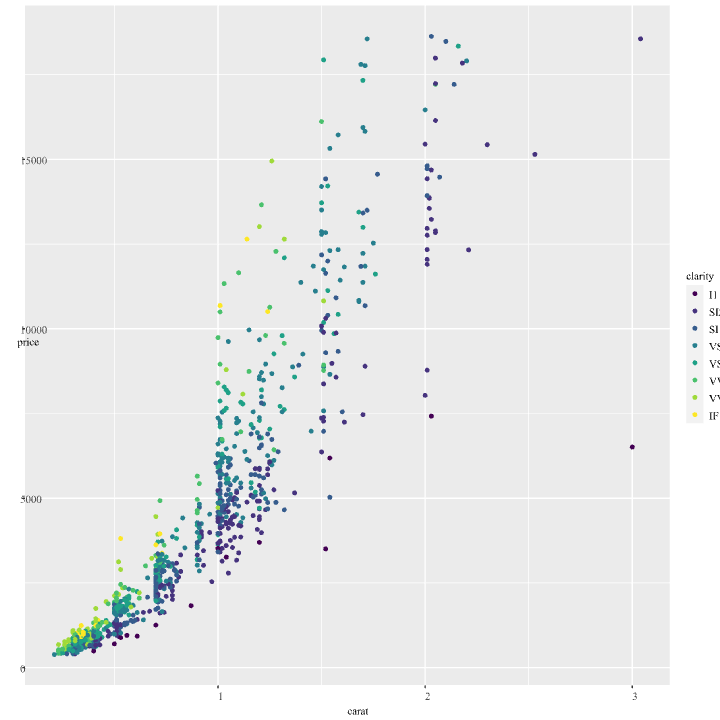
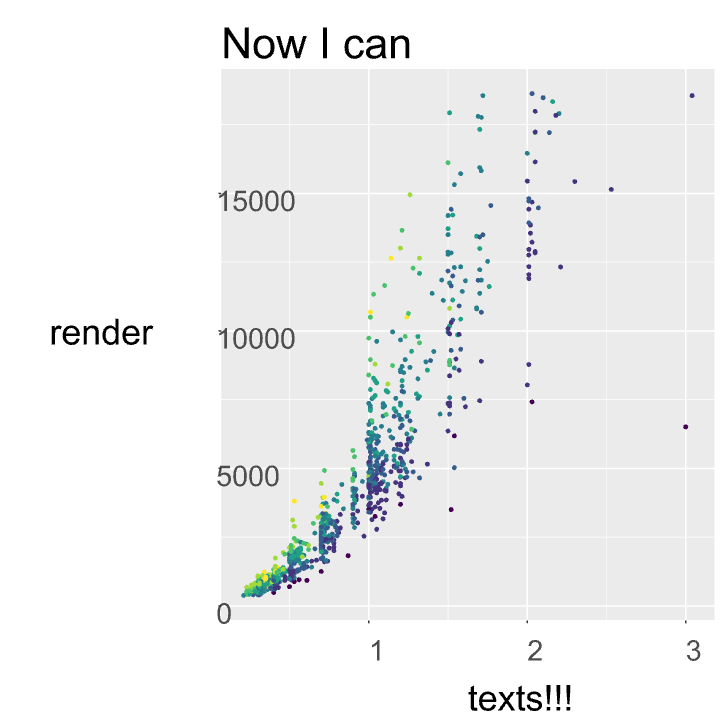
Fix

diff --git a/src/rust/src/graphics_device.rs b/src/rust/src/graphics_device.rs
@@ -1,7 +1,7 @@
 use std::os::raw::c_char;
 
 use extendr_api::{
-    graphics::{ClippingStrategy, DevDesc, DeviceDriver, R_GE_gcontext},
+    graphics::{ClippingStrategy, DevDesc, DeviceDriver, R_GE_gcontext, TextMetric},
     prelude::*,
 };
 
@@ -324,6 +324,17 @@ impl DeviceDriver for crate::WgpuGraphicsDevice {
         self.tesselate_rect_stroke(&lyon::math::rect(x, y, w, h), stroke_options, color);
     }
 
+    // Wildly assumes 1 font has 1pt of width, and 10% of horizontal margins on
+    // top and bottom. This should be properly done by querying to a font
+    // database (e.g. https://github.com/RazrFalcon/fontdb).
+    fn char_metric(&mut self, c: char, gc: R_GE_gcontext, _: DevDesc) -> TextMetric {
+        TextMetric {
+            ascent: 1.1 * gc.ps,
+            descent: 0.1 * gc.ps,
+            width: gc.ps,
+        }
+    }
+
     fn text(
         &mut self,
         pos: (f64, f64),
@@ -333,14 +344,16 @@ impl DeviceDriver for crate::WgpuGraphicsDevice {
         gc: R_GE_gcontext,
         _: DevDesc,
     ) {
-        eprintln!("[DEBUG] pos: {pos:?}");
-
         let fill = gc.col;
+
         // TODO: determine tolerance nicely
         let tolerance = 0.01;
 
+        let fontsize = (gc.cex * gc.ps) as f32;
         let fontfamily =
             unsafe { std::ffi::CStr::from_ptr(&gc.fontfamily as *const c_char) }.to_string_lossy();
+
+        reprintln!("[DEBUG] fontsize: {fontsize}");
 
         // TODO: Can I do this more nicely?
         let (weight, style) = match gc.fontface {
@@ -360,7 +373,7 @@ impl DeviceDriver for crate::WgpuGraphicsDevice {
         };
 
         let query = fontdb::Query {
-            families: &[fontdb::Family::Name(&fontfamily), fontdb::Family::Serif],
+            families: &[fontdb::Family::Name(&fontfamily), fontdb::Family::SansSerif],
             weight,
             stretch: fontdb::Stretch::Normal,
             style,
@@ -383,7 +396,7 @@ impl DeviceDriver for crate::WgpuGraphicsDevice {
             let line_height = height + font.line_gap() as f32;
 
             // TODO: what size is the correct size?
-            let scale_factor = 12. / height;
+            let scale_factor = fontsize / height;
 
             let mut builder =
                 crate::text::LyonOutlineBuilder::new(scale_factor, pos.0 as _, pos.1 as _);

diff --git a/src/rust/src/text.rs b/src/rust/src/text.rs
@@ -36,6 +36,7 @@ impl LyonOutlineBuilder {
         lyon::math::point(
             x * self.scale_factor + self.offset_x,
             y * self.scale_factor + self.offset_y,
+            // y * self.scale_factor + self.offset_y,
         )
     }
 

diff --git a/README.md b/README.md
@@ -56,7 +56,9 @@ wgpugd(file, 10, 10)
 set.seed(10)
 dsamp <- diamonds[sample(nrow(diamonds), 1000), ]
 ggplot(dsamp, aes(carat, price)) +
-  geom_point(aes(colour = clarity))
+  geom_point(aes(colour = clarity)) +
+  labs(title = "Now I can", y = "render", x ="texts!!!") +
+  theme(text = element_text(size = 40), legend.position = "none")
 
 dev.off()
 #> png 
